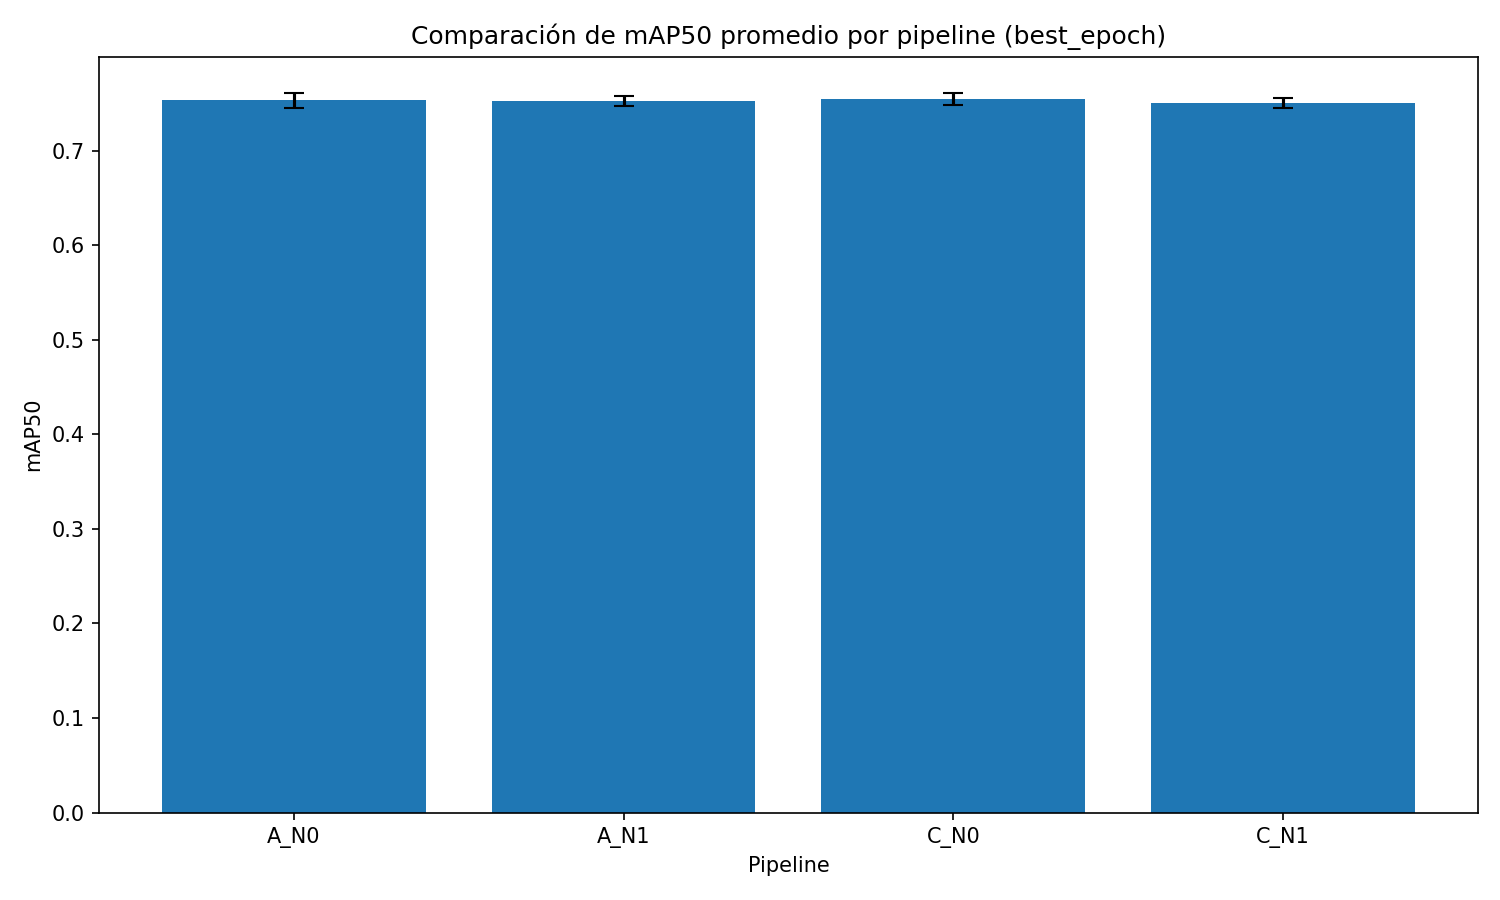
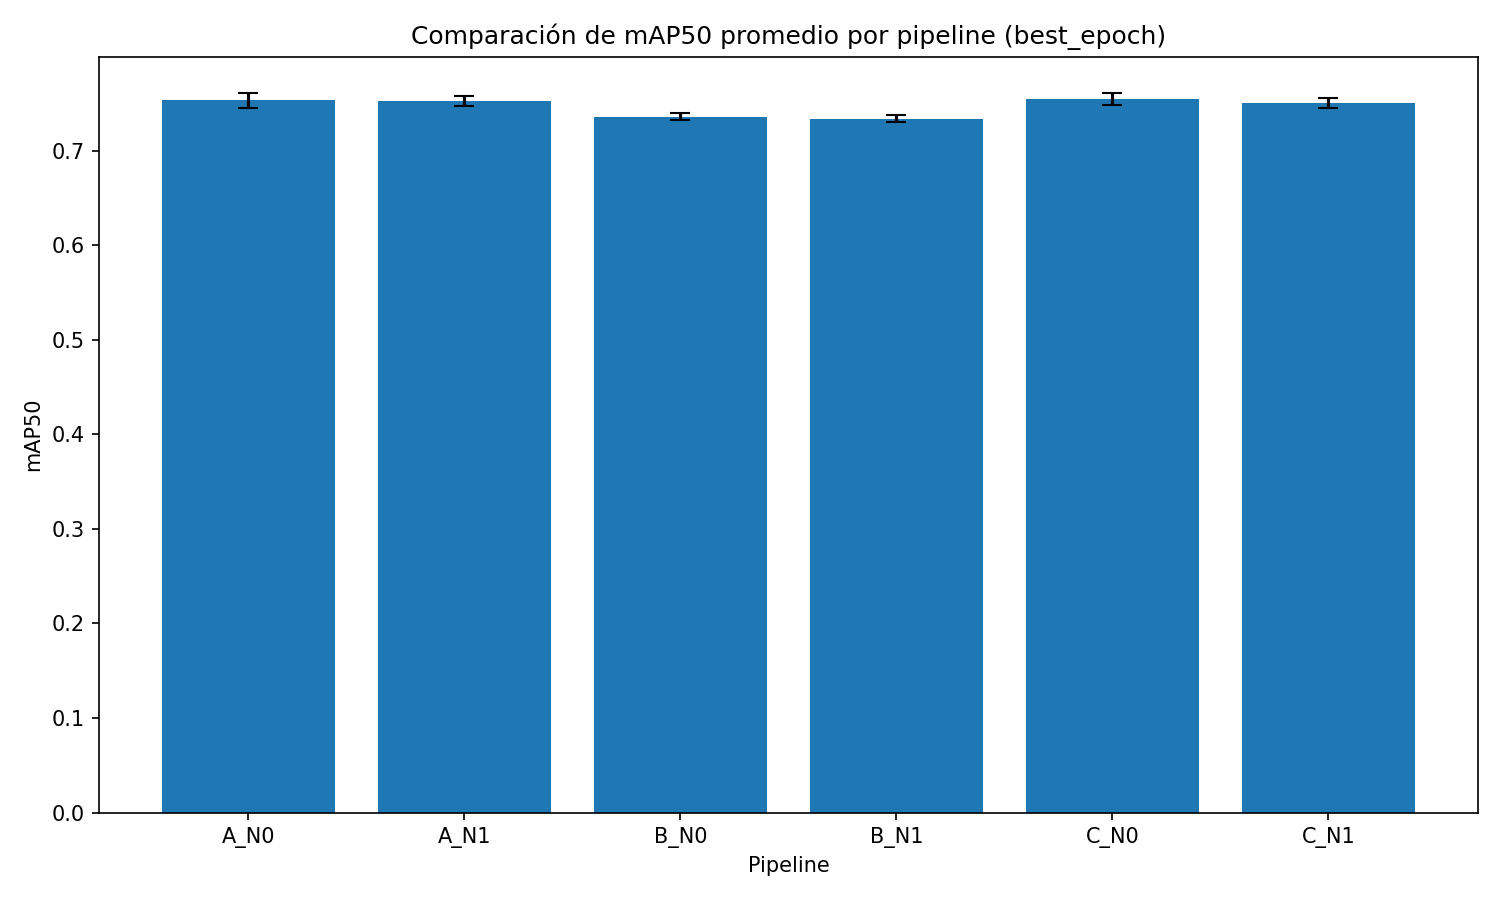
best epoch for each model of pipeline A, B and C

diff --git a/scripts/S_08_stats_and_plots.py b/scripts/S_08_stats_and_plots.py
@@ -12,7 +12,7 @@ FINAL_CSV = ANALYSIS_INPUT_DIR / "epoch_final_metrics.csv"
 BEST_CSV = ANALYSIS_INPUT_DIR / "best_epoch_metrics.csv"
 SUMMARY_CSV = ANALYSIS_INPUT_DIR / "summary_metrics.csv"
 
-PIPELINE_ORDER = ["A_N0", "A_N1", "C_N0", "C_N1", "D_N0", "D_N1"]
+PIPELINE_ORDER = ["A_N0", "A_N1", "B_N0", "B_N1", "C_N0", "C_N1"]
 
 
 def load_dataframes() -> tuple[pd.DataFrame, pd.DataFrame, pd.DataFrame]:

diff --git a/scripts/S_07_collect_experiment_metrics.py b/scripts/S_07_collect_experiment_metrics.py
@@ -45,7 +45,7 @@ def parse_experiment_name(folder_name: str):
     gpu_tag = parts[4]
     seed_tag = parts[5]
 
-    if visual_pipeline not in {"A", "C", "D"}:
+    if visual_pipeline not in {"A", "B", "C", "D"}:
         return None
 
     if normalization not in {"N0", "N1"}:
